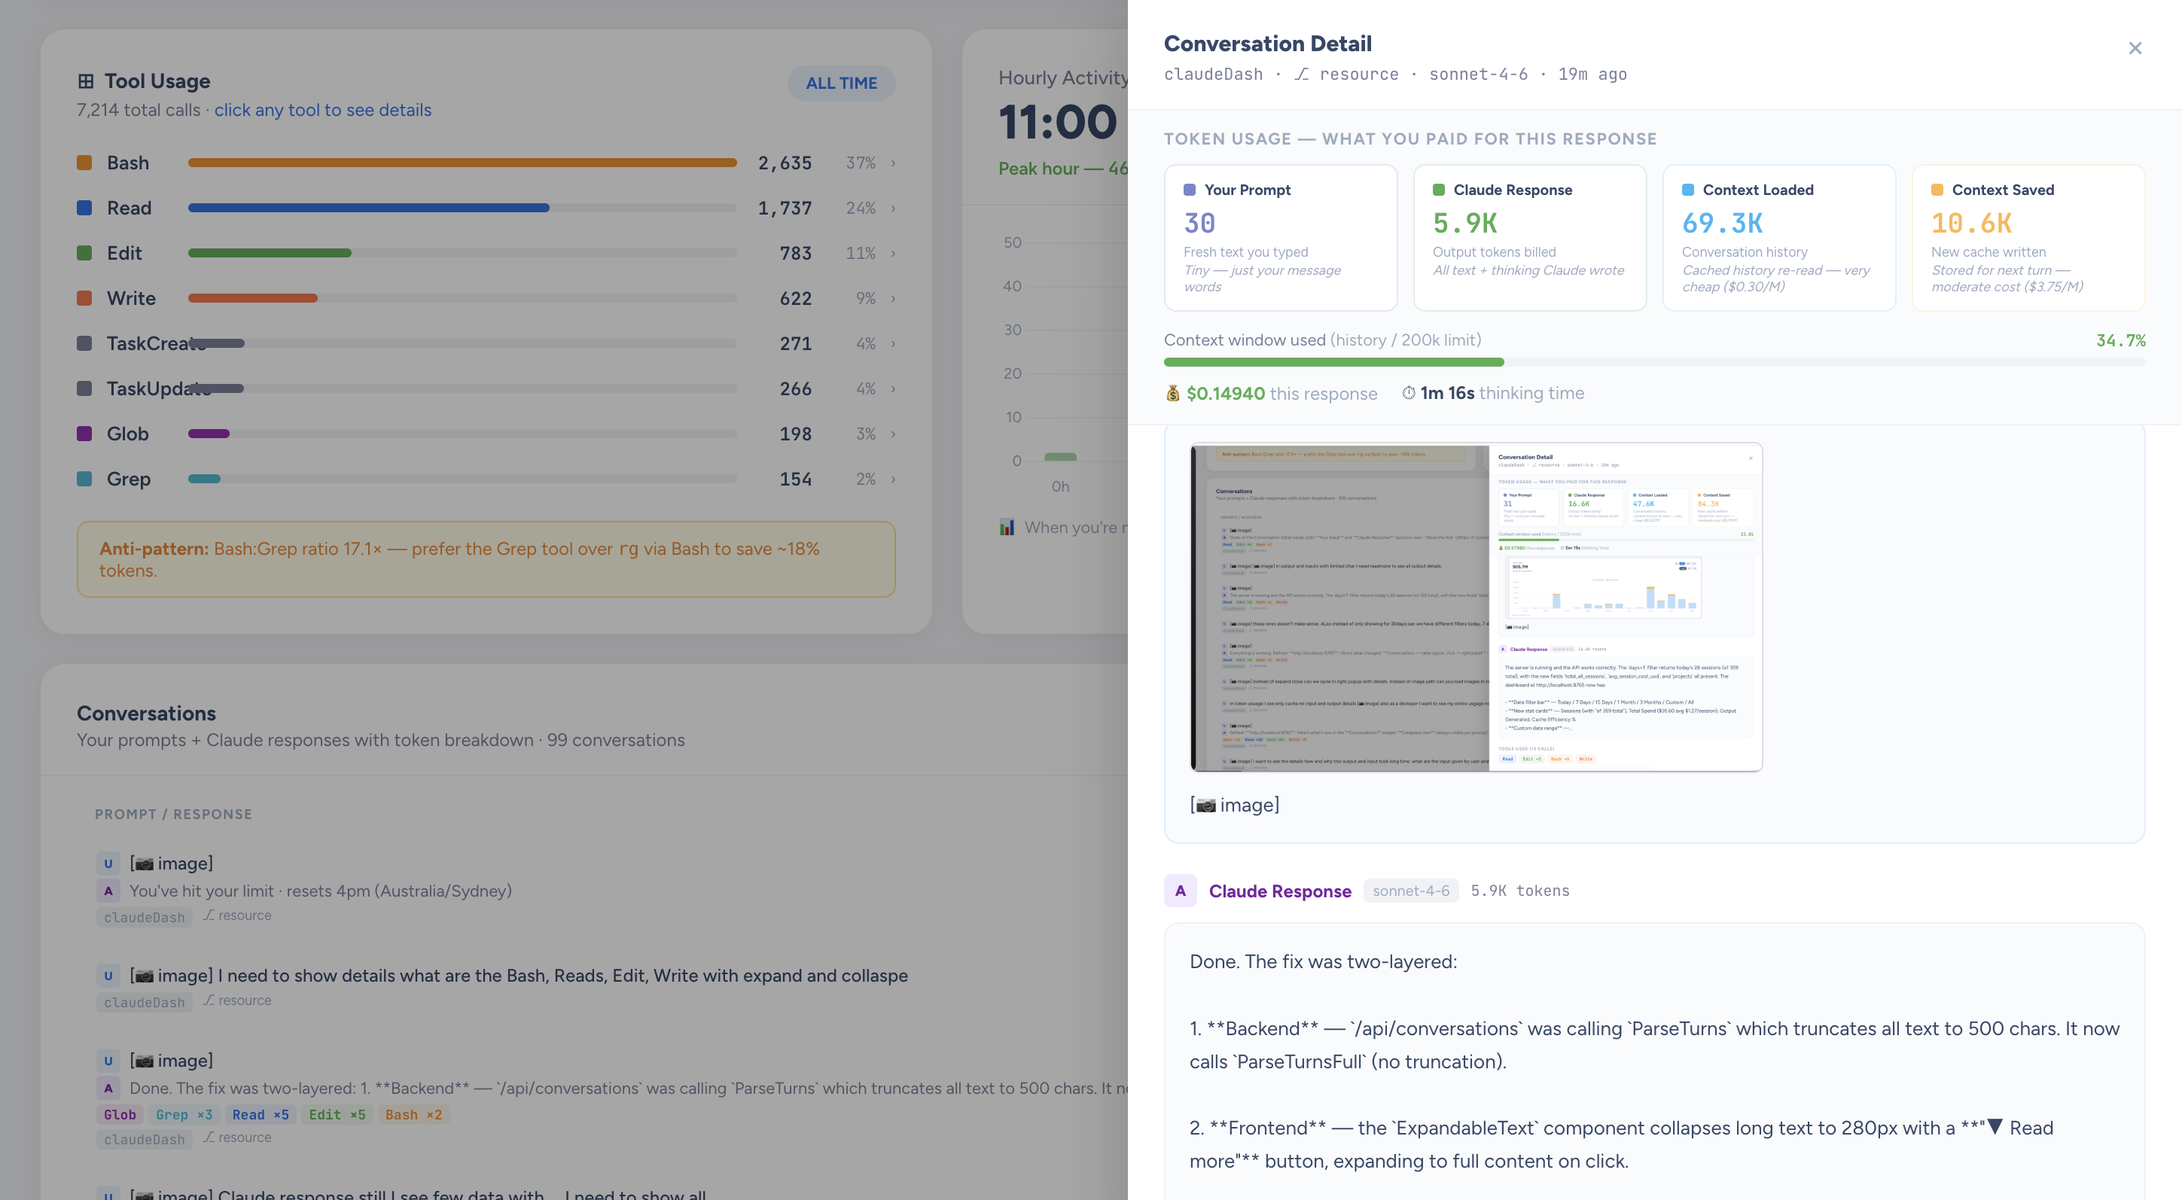
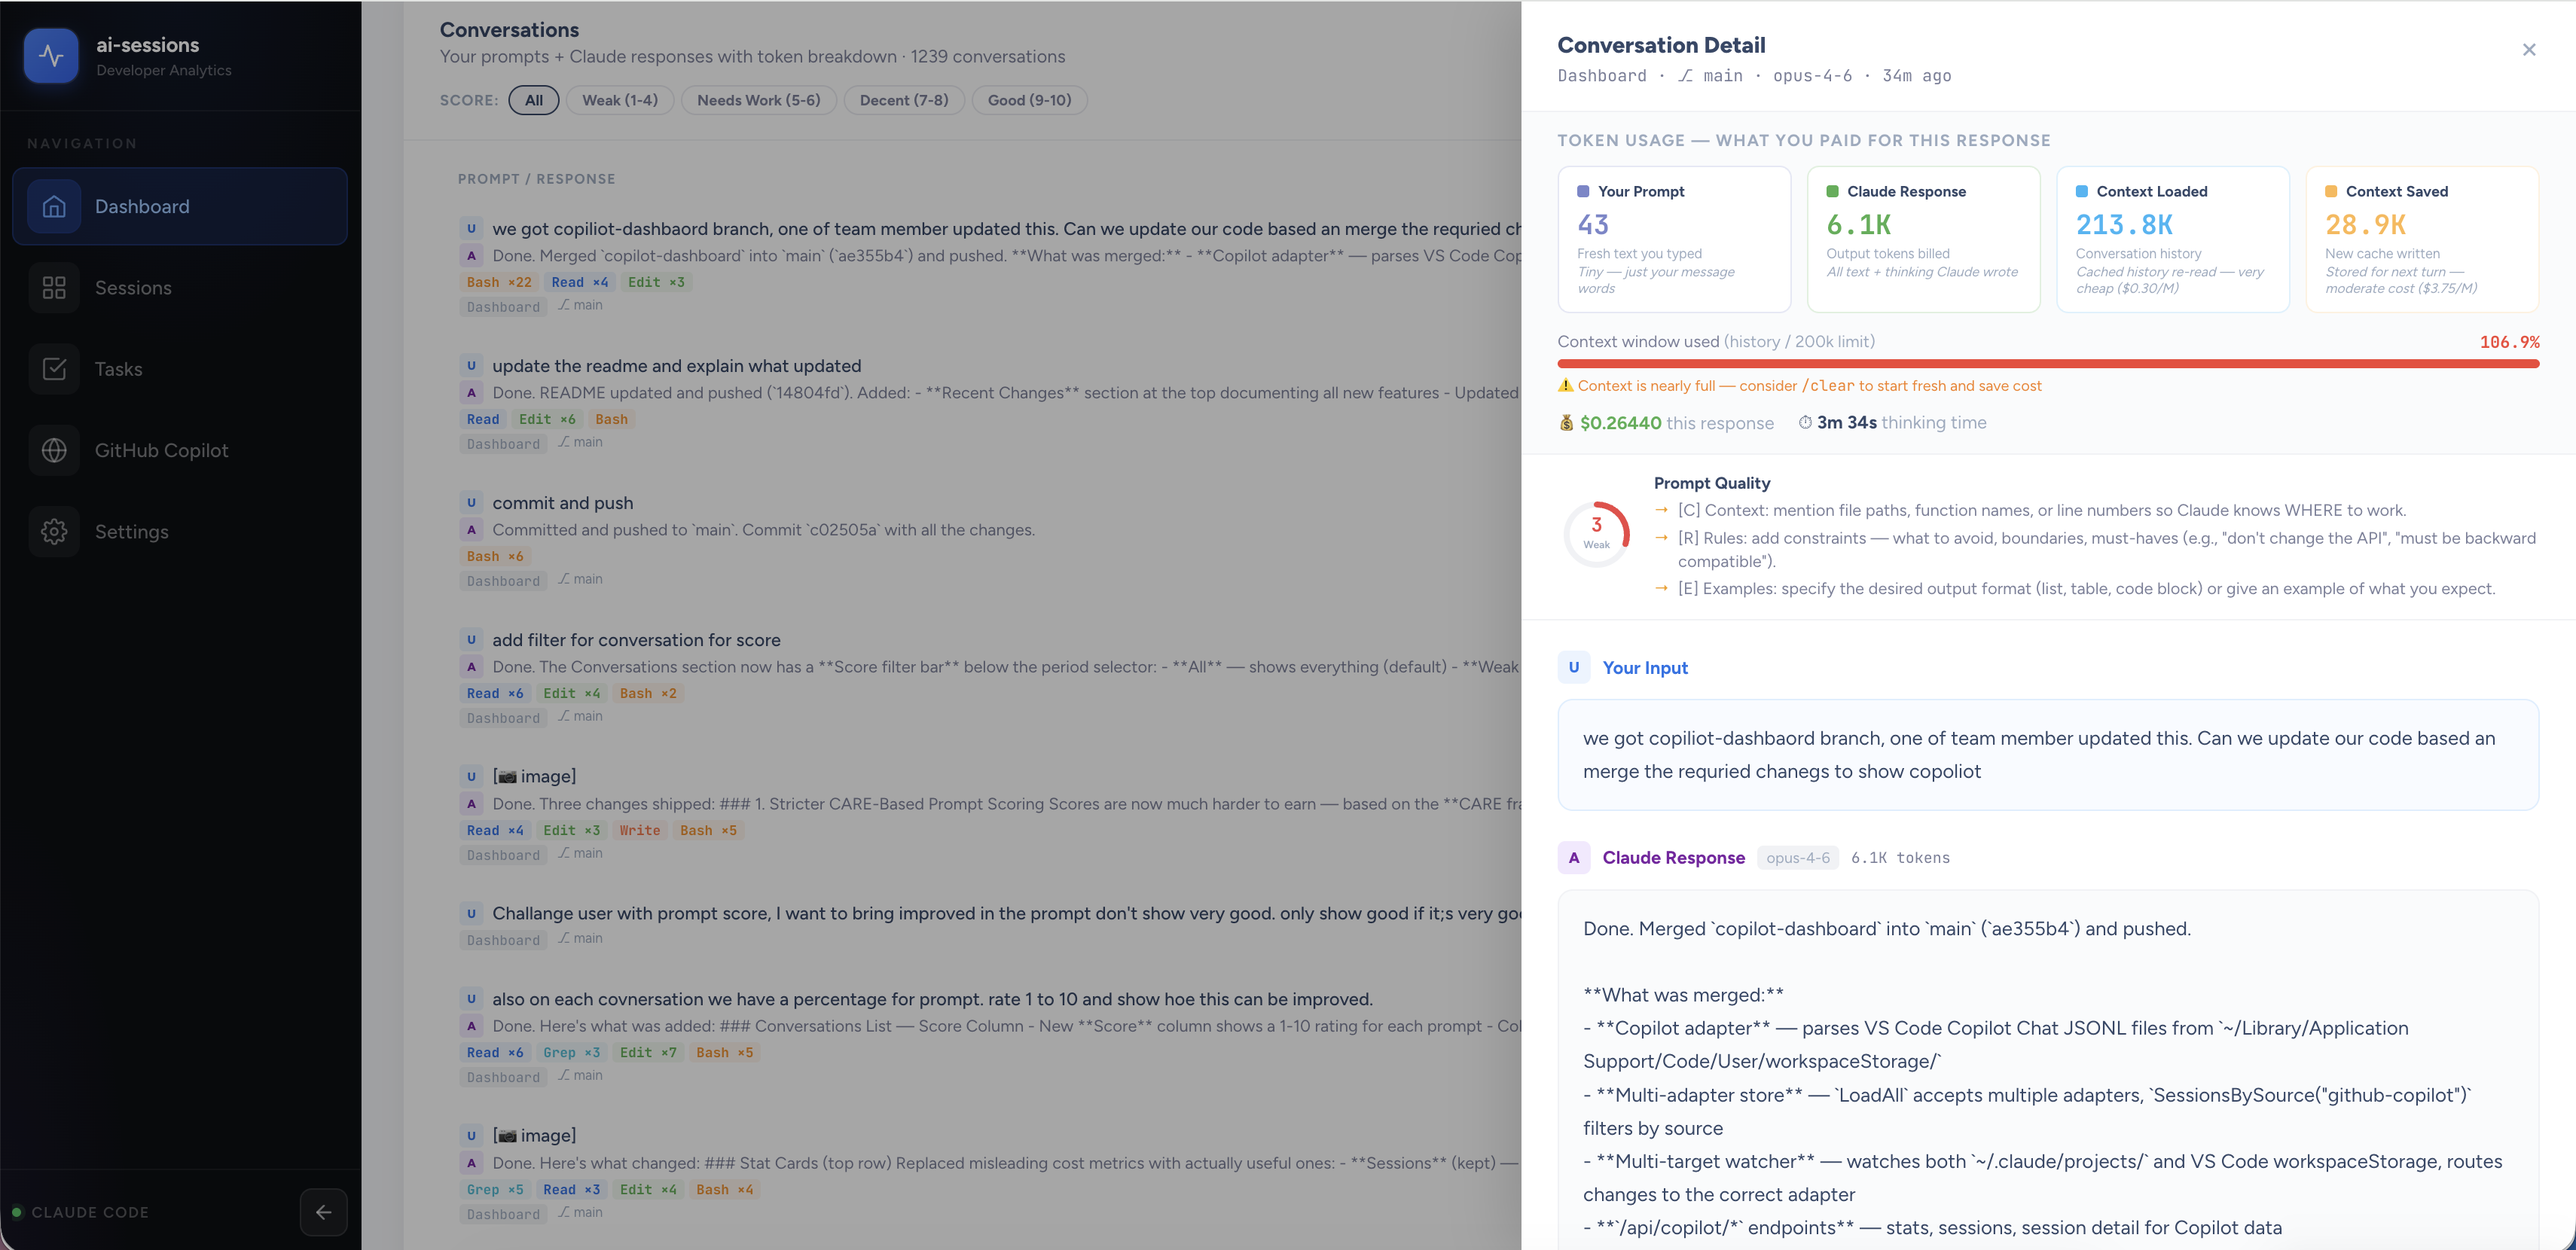
docs: update README screenshots with latest dashboard UI
Replace old screenshots with current dashboard showing:
- Dashboard overview: token-focused KPI cards, area chart, 7-day heatmap
- Session Explorer + PromptScore: tooltips, tier roadmap, examples links
- Prompt Examples Panel: real conversation examples slide-over (new)
- Conversations with CARE Scoring: score column, filter by quality (new)
- Conversation Detail: prompt quality ring with CARE tips

diff --git a/README.md b/README.md
@@ -68,41 +68,36 @@ If you are building your own analytics UI, this project shows practical widget p
 - **7-day token heatmap**: daily input/output token breakdown with color-coded intensity tiles.
 
 ## Quick Tour
-- [Dashboard overview](#1-dashboard-overview) — KPI cards, live banner, token trend chart
-- [Session Explorer + Prompt Insights](#2-session-explorer--prompt-insights) — Searchable sessions with quality hints
-- [Session Detail drawer](#3-session-detail-drawer) — Per-session deep dive with turn timeline
-- [Tool Usage, Hourly Activity, and Conversations](#4-tool-usage-hourly-activity-and-conversations) — Behavioral analytics widgets
-- [Tool samples drawer](#5-tool-samples-drawer) — Drill-down for selected tool usage patterns
-- [Conversation Detail drawer](#6-conversation-detail-drawer) — Turn-level analysis with prompt scoring and token breakdown
-- [Context Health + Claude Code Config + Tasks](#7-context-health--claude-code-config--tasks) — Context-fill tracking, system overview, and task progress
+- [Dashboard overview](#1-dashboard-overview) — KPI cards, token trend chart, 7-day heatmap
+- [Session Explorer + Prompt Insights](#2-session-explorer--prompt-insights) — Sessions with PromptScore, tooltips, and tier roadmap
+- [Prompt Examples Panel](#3-prompt-examples-panel) — Real conversation examples with improvement suggestions
+- [Conversations with CARE Scoring](#4-conversations-with-care-scoring) — Every prompt scored 1-10, filterable by quality
+- [Conversation Detail + Prompt Quality](#5-conversation-detail--prompt-quality) — Deep dive with CARE score ring and actionable tips
+- [Context Health + System Info + Tasks](#6-context-health--system-info--tasks) — Context tracking, config overview, task progress
 
 ## Dashboard screenshots (with explanation)
 ### 1) Dashboard overview
-Shows the global period filter, live session banner, top KPI cards (Sessions, Tokens Used, Projects, Tool Calls), and token trend area chart with 7-day heatmap showing input/output breakdown per day.
+KPI cards show **Sessions**, **Tokens Used** (with input/output breakdown), **Projects**, and **Tool Calls** — focused on actual usage, not misleading cost estimates. The token trend area chart shows output (green) vs input (purple) over time with date range toggles. Below, a **7-day heatmap** shows daily input/output token volume with color-coded intensity tiles.
 ![Dashboard overview](docs/images/dashboard-overview.png)
 
 ### 2) Session Explorer + Prompt Insights
-Shows the searchable/paginated session table (15 rows) on the left and prompt quality insights on the right. The PromptScore card includes beginner-friendly `?` tooltips explaining each metric (Output ratio, Agent delegation, Prompt specificity, Tool breadth), a "Path to Next Tier" section with clickable `examples →` links that open a slide-over panel showing real prompts from your conversations with improvement suggestions, and peer comparison benchmarks.
+The session table (15 rows per page) shows all sessions with source badges (Claude, Copilot), project, branch, and quality score. On the right, the **PromptScore** card shows your tier (Beginner → Expert) with beginner-friendly `?` tooltips explaining each metric. The **"Path to Next Tier"** section shows exactly what to improve, with clickable `examples →` links for each dimension.
 ![Session Explorer and Prompt Insights](docs/images/session-explorer-and-prompt-insights.png)
 
-### 3) Session Detail drawer
-Shows per-session deep dive data (turn timeline, token breakdown, tool calls, estimated cost) opened from Session Explorer.
-![Session Detail drawer](docs/images/session-detail-drawer.png)
+### 3) Prompt Examples Panel
+Clicking `examples →` opens a slide-over panel showing **real prompts from your conversations**. Each example shows what you typed (red), a better version (green), and why the change helps. Examples are dynamically generated from your actual session data — not hardcoded. This teaches you how to write better prompts by learning from your own usage patterns.
+![Prompt Examples Panel](docs/images/prompt-examples-panel.png)
 
-### 4) Tool Usage, Hourly Activity, and Conversations
-Shows behavioral analytics widgets: tool distribution, productivity by hour, and the full-width Conversations table with CARE-based prompt scoring (1-10) per conversation. Each prompt is rated on Context, Ask, Rules, and Examples. Filter conversations by score range: Weak (1-4), Needs Work (5-6), Decent (7-8), Good (9-10).
-![Tool Usage, Hourly Activity, and Conversations](docs/images/tool-usage-activity-and-conversations.png)
+### 4) Conversations with CARE Scoring
+Every conversation is scored **1-10** using the **CARE framework**: **C**ontext (file paths, role), **A**sk (action verb, detail), **R**ules (constraints, boundaries), **E**xamples (output format, code samples). Filter by score range to find your weakest prompts and learn from them. The Score column is color-coded: red (1-4 Weak), amber (5-6 Needs Work), blue (7-8 Decent), green (9-10 Good).
+![Conversations with CARE Scoring](docs/images/conversations-with-score.png)
 
-### 5) Tool sample details drawer
-Shows drill-down for a selected tool (example: `Read`) with recent sampled calls to understand usage patterns.
-![Tool samples drawer (Read)](docs/images/tool-samples-drawer-read.png)
+### 5) Conversation Detail + Prompt Quality
+The detail panel shows a **Prompt Quality ring** (1-10) with improvement tips tagged by CARE dimension (`[C]`, `[A]`, `[R]`, `[E]`). Below, the token usage breakdown shows what you paid for: Your Prompt, Claude Response, Context Loaded (cached), and Context Saved. The full user input and Claude response are displayed with tool call details.
+![Conversation Detail with Prompt Quality](docs/images/conversation-detail-drawer.png)
 
-### 6) Conversation Detail drawer
-Shows turn-level conversation analysis including a Prompt Quality ring (1-10 score with label), actionable improvement tips tagged by CARE dimension (`[C]`, `[A]`, `[R]`, `[E]`), billed token categories, context-window usage, and full assistant response.
-![Conversation Detail drawer](docs/images/conversation-detail-drawer.png)
-
-### 7) Context Health + Claude Code Config + Tasks
-Shows session context-fill health, system-level Claude usage/config overview (projects, session files, plugins, MCP servers), and a Tasks widget with completion ring and in-progress items across projects.
+### 6) Context Health + System Info + Tasks
+Three widgets in the bottom row: **Context Health** tracks context window fill per session with warning states. **System Info** shows Claude Code config (plugins, MCP servers, session stats). **Tasks** shows completion progress across projects with a ring chart and in-progress items.
 ![Context Health, System Info, and Tasks](docs/images/context-health-and-system-info.png)
 
 ## Tech stack
@@ -117,7 +112,7 @@ This project follows a **single-binary, layered architecture**:
 
 1. **Adapter layer** (`internal/adapters/*`)
    - Detects and parses source session files.
-   - Current implementation: Claude Code adapter.
+   - Implementations: Claude Code adapter, GitHub Copilot adapter.
 2. **Store layer** (`internal/store`)
    - In-memory indexed session store.
    - Computes aggregate statistics and time-windowed summaries.
